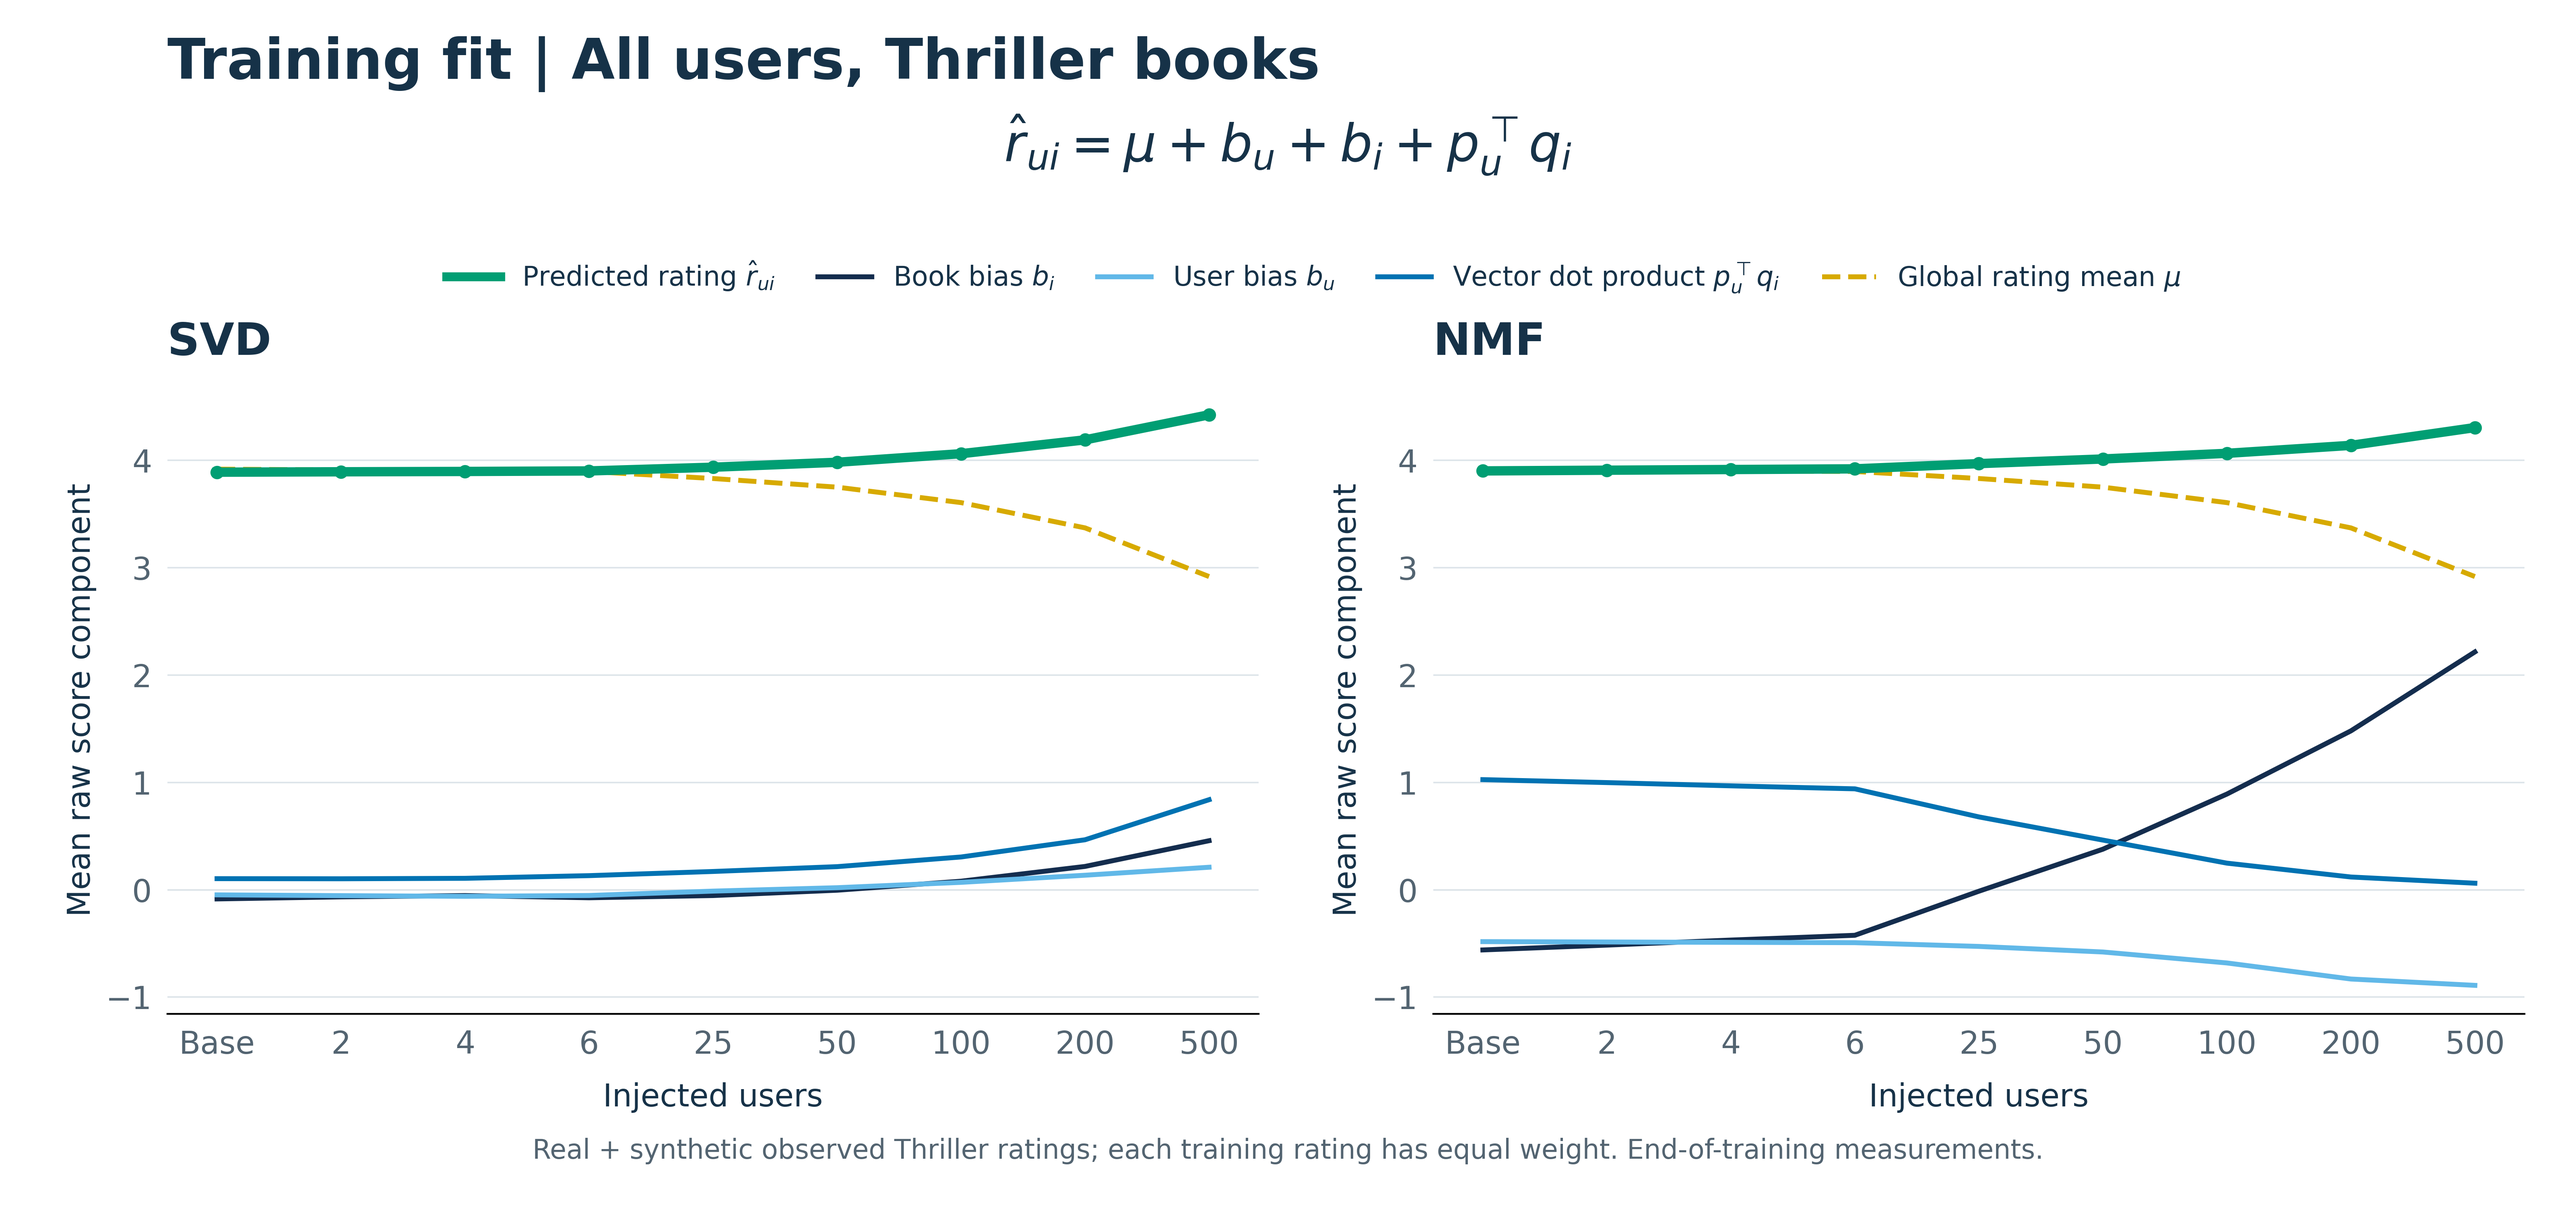
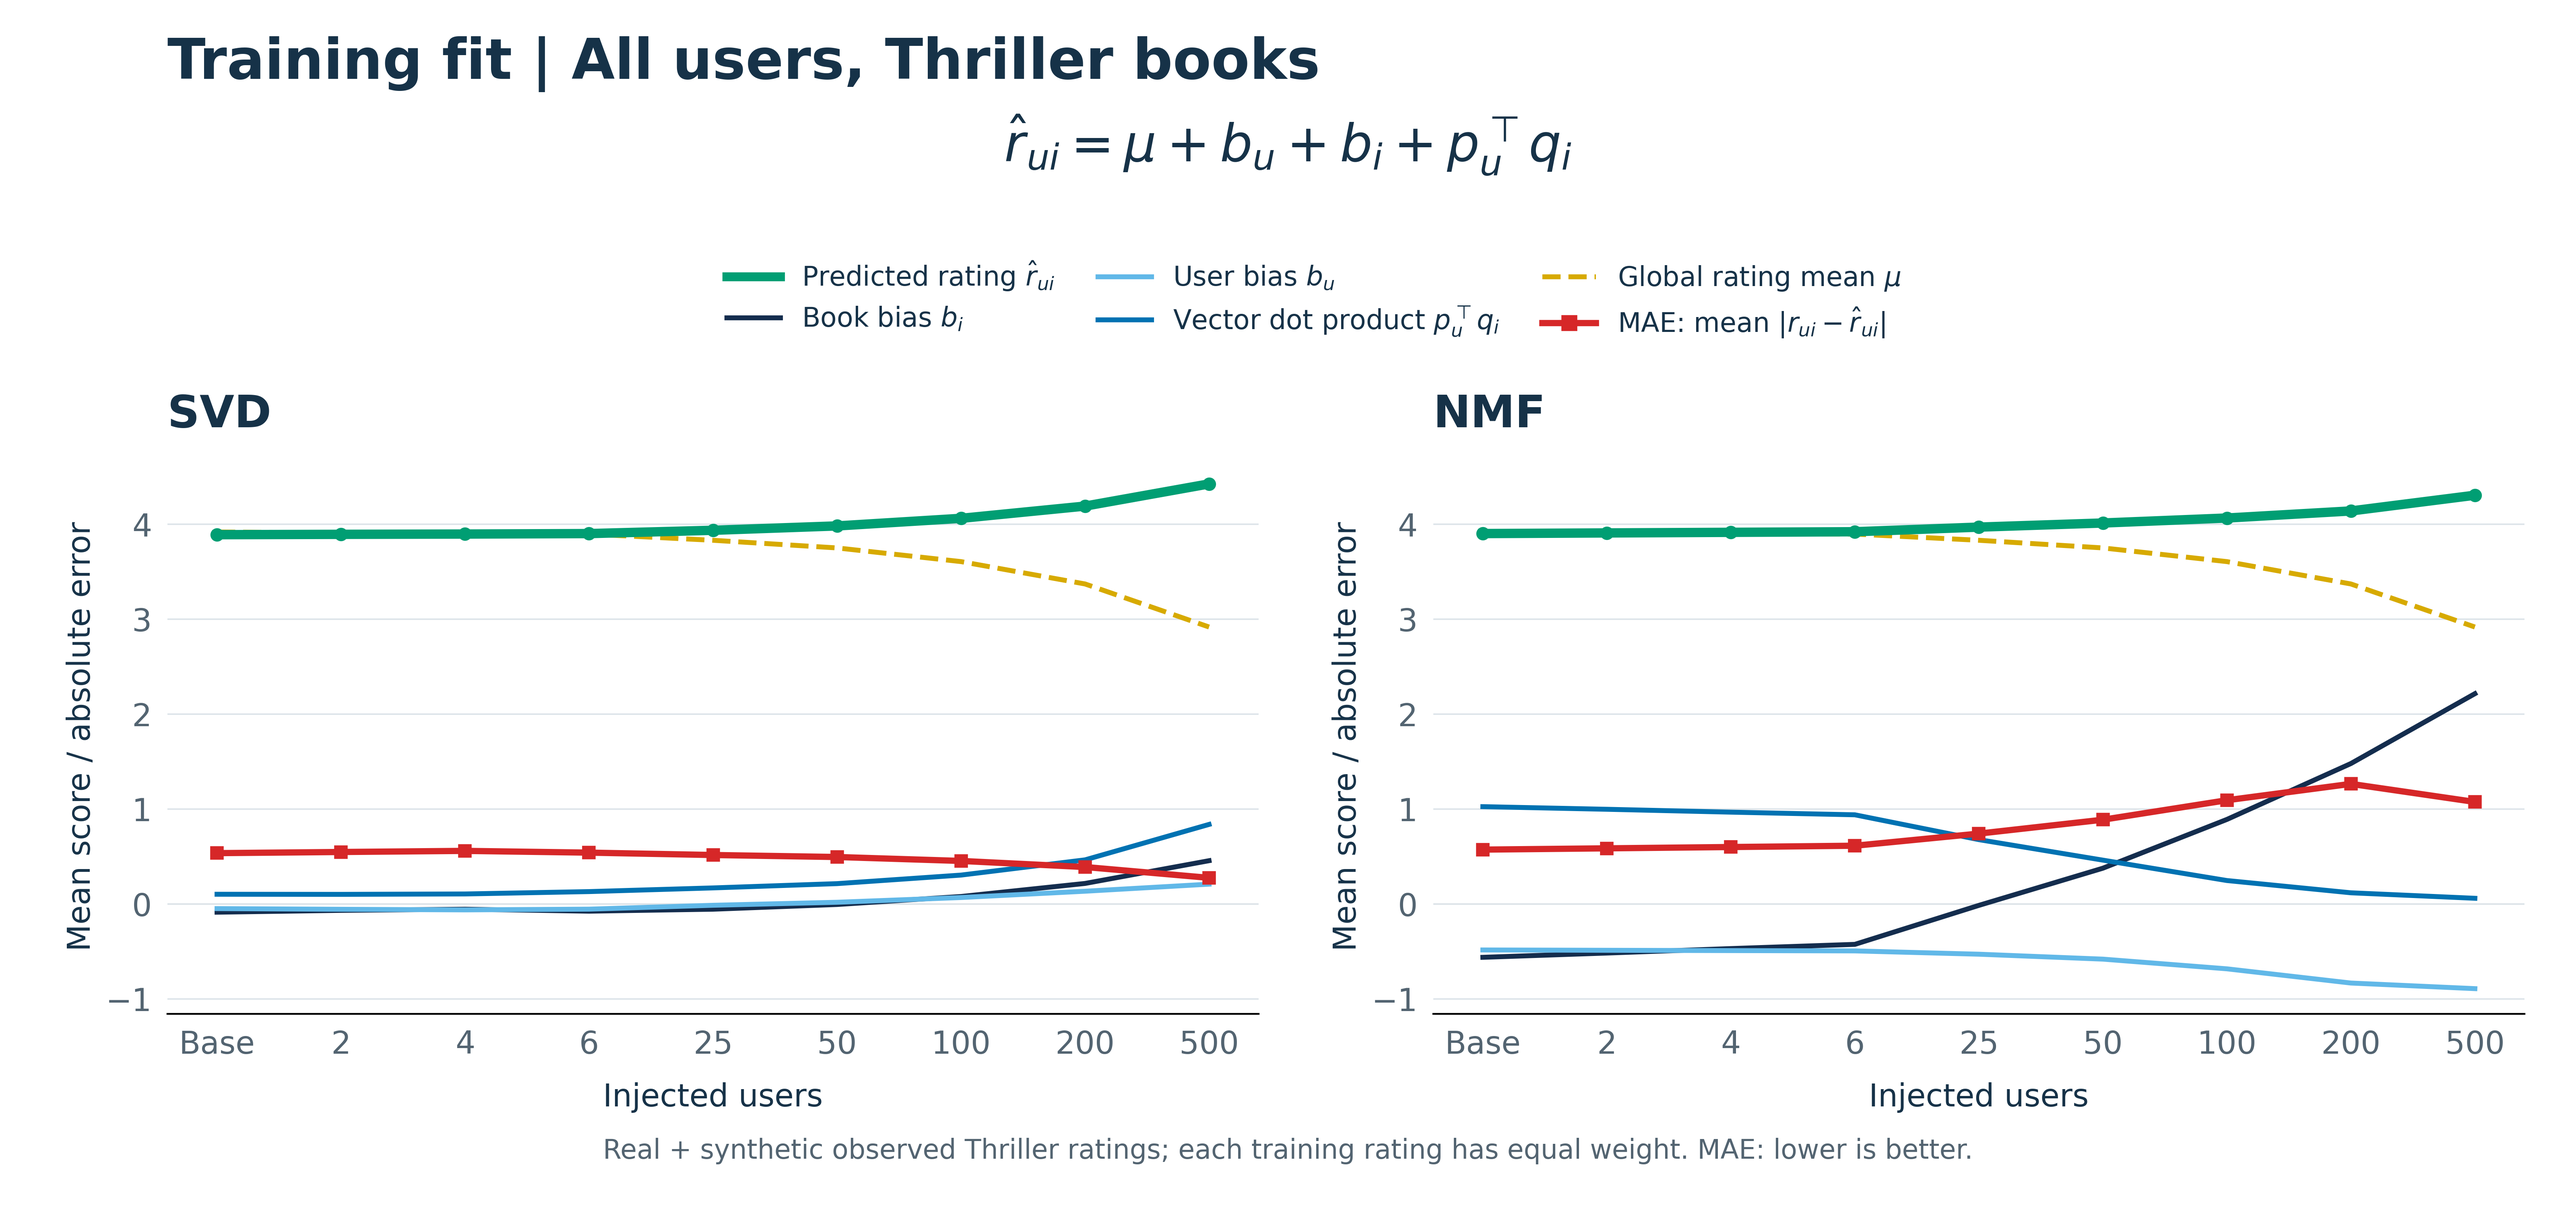
Add red MAE curve to all-user Thriller training figure

diff --git a/First_paper_material/analysis/score_components/plot_training_components.py b/First_paper_material/analysis/score_components/plot_training_components.py
@@ -1,5 +1,5 @@
 from pathlib import Path
-import json
+import json,io,subprocess,hashlib,sys
 import pandas as pd,numpy as np
 import matplotlib
 matplotlib.use('Agg')
@@ -16,6 +16,35 @@ for (model,n,group),d in f[f.view.isin(['real_observed_training','synthetic_trai
  assert np.isclose(vals['mean_prediction'],vals['mu']+vals['mean_bu']+vals['mean_bi']+vals['mean_interaction'],atol=1e-10)
  rows.append(dict(model=model,n_fake=n,group=group,view='all_training',n_pairs=int(weights.sum()),weighting='equal observed rating pair, real plus synthetic',**vals))
 f=pd.concat([f,pd.DataFrame(rows)],ignore_index=True)
+
+# Exact absolute errors from existing checkpoint diagnostics, not errors of group means.
+mae_rows=[];provenance=[]
+for model in ['svd','nmf']:
+ tables={}
+ for filename in ['real_observed_score_components','synthetic_score_components']:
+  relative=f'Book/current/PerturbRec/svd_nmf/layer1/result/reviewer_hypothesis/{model.upper()}/Thriller/{filename}.csv'
+  path=R/relative
+  raw=path.read_bytes() if path.exists() else subprocess.check_output(['git','show','HEAD:'+relative],cwd=R)
+  tables[filename]=pd.read_csv(io.BytesIO(raw));provenance.append(dict(path=relative,sha256=hashlib.sha256(raw).hexdigest()))
+ obs=tables['real_observed_score_components'];obs=obs[obs.pair_group=='target_observed']
+ fake=tables['synthetic_score_components'];fake=fake[fake.pair_group=='target']
+ assert np.allclose(obs.mae_before,obs.mae_before.iloc[0])
+ for n in [0,2,4,6,25,50,100,200,500]:
+  real=obs[obs.n_fake==n].iloc[0] if n else obs.iloc[0]
+  mae_real=float(real.mae_after if n else real.mae_before);nr=int(real.n_pairs)
+  if n:
+   sy=fake[fake.n_fake==n].iloc[0];nf=int(sy.n_pairs);mae_fake=float(sy.mae)
+   check=f[(f.model==model)&(f.n_fake==n)&(f.view=='synthetic_training')&(f.group=='target')].iloc[0]
+   assert np.isclose(check.mean_prediction,sy.mean_prediction,atol=1e-10)
+   real_check=f[(f.model==model)&(f.n_fake==n)&(f.view=='real_observed_training')&(f.group=='target')].iloc[0]
+   assert np.isclose(real_check.mean_prediction,real.mean_prediction_after,atol=1e-10)
+  else:nf=0;mae_fake=0.
+  total=(nr*mae_real+nf*mae_fake)/(nr+nf)
+  assert total>=0 and np.isfinite(total)
+  mae_rows.append(dict(model=model,n_fake=n,n_real_ratings=nr,n_synthetic_ratings=nf,real_mae=mae_real,synthetic_mae=mae_fake if n else None,all_mae=total))
+maes=pd.DataFrame(mae_rows);maes.to_csv(D/'training_all_users_mae.csv',index=False)
+(D/'training_mae_validation.json').write_text(json.dumps(dict(sources=provenance,definition='mean(abs(recorded rating - raw predicted score))',weighting='equal observed Thriller training rating, real plus synthetic',error_of_mean_not_used=True,no_retraining=True),indent=2))
+
 f[f.view.isin(['all_training','synthetic_training'])].to_csv(D/'training_components.csv',index=False)
 
 plt.rcParams.update({'font.family':'DejaVu Sans','font.size':14,'axes.spines.top':False,'axes.spines.right':False,'axes.spines.left':False,'axes.titleweight':'bold','axes.labelcolor':'#163248','text.color':'#163248','xtick.color':'#536471','ytick.color':'#536471','figure.facecolor':'white','savefig.facecolor':'white'})
@@ -24,6 +53,7 @@ labels={'mean_prediction':r'Predicted rating $\hat r_{ui}$','mean_bi':r'Book bia
 names={'all_training':('training_all_users_thriller.png','Training fit | All users, Thriller books','Real + synthetic observed Thriller ratings; each training rating has equal weight.'),'synthetic_training':('training_synthetic_users_thriller.png','Training fit | Synthetic users, Thriller books','Synthetic Thriller ratings only (recorded rating 5); model trained on all users.')}
 
 for view,(name,title,note) in names.items():
+ if '--all-only' in sys.argv and view!='all_training':continue
  fig,axs=plt.subplots(1,2,figsize=(16,7.5),sharey=True)
  data=f[(f.view==view)&(f.group=='target')]
  for ax,model in zip(axs,['svd','nmf']):
@@ -32,13 +62,17 @@ for view,(name,title,note) in names.items():
   x=np.arange(len(d))
   for key in ['mu','mean_bi','mean_bu','mean_interaction','mean_prediction']:
    ax.plot(x,d[key],color=colors[key],label=labels[key],lw=4.2 if key=='mean_prediction' else 2.2,marker='o' if key=='mean_prediction' else None,ms=5,zorder=5 if key=='mean_prediction' else 3,ls='--' if key=='mu' else '-')
+  if view=='all_training':
+   err=maes[maes.model==model].sort_values('n_fake');assert err.n_fake.tolist()==d.n_fake.tolist()
+   ax.plot(x,err.all_mae,color='#D62728',lw=2.8,marker='s',ms=5,zorder=6)
   ax.axhline(0,color='#A6B2BB',lw=.7,zorder=1);ax.set_title(model.upper(),loc='left',pad=14,fontsize=20)
-  ax.set_xticks(x,['Base' if n==0 else str(n) for n in d.n_fake]);ax.set_xlabel('Injected users',labelpad=10);ax.set_ylabel('Mean raw score component');ax.grid(axis='y',color='#DEE5EA',lw=.7);ax.tick_params(length=0,pad=7,labelleft=True)
+  ax.set_xticks(x,['Base' if n==0 else str(n) for n in d.n_fake]);ax.set_xlabel('Injected users',labelpad=10);ax.set_ylabel('Mean score / absolute error' if view=='all_training' else 'Mean raw score component');ax.grid(axis='y',color='#DEE5EA',lw=.7);ax.tick_params(length=0,pad=7,labelleft=True)
  fig.suptitle(title,x=.065,ha='left',y=.97,fontsize=25,fontweight='bold')
  fig.text(.5,.866,r'$\hat r_{ui}=\mu+b_u+b_i+p_u^\top q_i$',ha='center',fontsize=23)
  handles=[Line2D([0],[0],color=colors[k],lw=4 if k=='mean_prediction' else 2.2,ls='--' if k=='mu' else '-',label=labels[k]) for k in colors]
- fig.legend(handles=handles,loc='upper center',bbox_to_anchor=(.51,.805),ncol=5,frameon=False,fontsize=12,columnspacing=1.6)
- fig.text(.5,.04,note+' End-of-training measurements.',ha='center',fontsize=12,color='#536471')
- fig.subplots_adjust(left=.065,right=.98,top=.68,bottom=.16,wspace=.16)
+ if view=='all_training':handles.append(Line2D([0],[0],color='#D62728',lw=2.8,marker='s',label=r'MAE: mean $|r_{ui}-\hat r_{ui}|$'))
+ fig.legend(handles=handles,loc='upper center',bbox_to_anchor=(.51,.805),ncol=3 if view=='all_training' else 5,frameon=False,fontsize=12,columnspacing=1.6)
+ fig.text(.5,.04,(note+' MAE: lower is better.' if view=='all_training' else note+' End-of-training measurements.'),ha='center',fontsize=12,color='#536471')
+ fig.subplots_adjust(left=.065,right=.98,top=.62 if view=='all_training' else .68,bottom=.16,wspace=.16)
  fig.savefig(O/name,dpi=400);fig.savefig(D/name.replace('.png','_preview.png'),dpi=100);plt.close(fig)
  print(name,flush=True)
